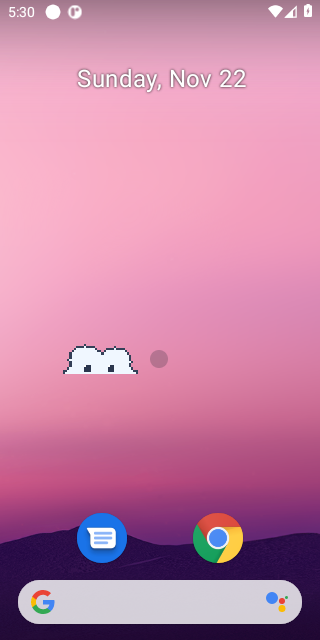
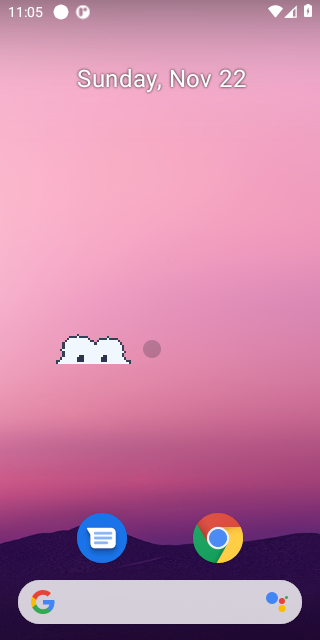
AI chat qua bridge native (tranh CORS) + anh float
- aiRequest HttpURLConnection, https/localhost
- askAI uu tien bridge, fallback fetch; 53 test
- 4.20.1 (versionCode 60)

Changed region(s): [[0.1875, 0.5, 0.4375, 0.5938], [0.0312, 0.0, 0.2812, 0.0312], [0.4375, 0.5312, 0.5312, 0.5938]]

diff --git a/pet-studio/ai.js b/pet-studio/ai.js
@@ -32,15 +32,34 @@ export function parseReply(json) {
   return String(text).trim().slice(0, 300);
 }
 
-export async function askAI(config, messages, fetchImpl = fetch) {
+export async function askAI(config, messages, fetchImpl = null) {
   const { url, init } = buildRequest({
     endpoint: config.endpoint,
     model: config.model,
     messages,
   });
+  const bridge = typeof window !== 'undefined' && window.AndroidPet && window.AndroidPet.aiRequest;
+  if (bridge && !fetchImpl) {
+    const raw = bridge(url, config.key ? 'Bearer ' + config.key : '', init.body);
+    let envelope;
+    try {
+      envelope = JSON.parse(raw);
+    } catch (err) {
+      throw new Error('bridge trả về không hợp lệ');
+    }
+    if (!envelope.ok) throw new Error('HTTP ' + envelope.status + ': ' + String(envelope.body || '').slice(0, 120));
+    let json;
+    try {
+      json = JSON.parse(envelope.body);
+    } catch (err) {
+      throw new Error('phản hồi không phải JSON');
+    }
+    return parseReply(json);
+  }
+  const doFetch = fetchImpl || fetch;
   const headers = { ...init.headers };
   if (config.key) headers.Authorization = 'Bearer ' + config.key;
-  const res = await fetchImpl(url, { ...init, headers });
+  const res = await doFetch(url, { ...init, headers });
   if (!res.ok) {
     const body = await res.text().catch(() => '');
     throw new Error('HTTP ' + res.status + (body ? ': ' + body.slice(0, 120) : ''));

diff --git a/android/app/src/main/java/io/github/vukiengiang/petstudio/MainActivity.java b/android/app/src/main/java/io/github/vukiengiang/petstudio/MainActivity.java
@@ -44,6 +44,9 @@ import androidx.webkit.WebViewAssetLoader;
 import androidx.webkit.WebViewClientCompat;
 
 import java.io.ByteArrayOutputStream;
+import java.io.InputStream;
+import java.net.HttpURLConnection;
+import java.net.URL;
 import java.io.File;
 import java.io.FileOutputStream;
 import java.io.InputStream;
@@ -341,6 +344,54 @@ public class MainActivity extends Activity {
             }
             startService(new Intent(MainActivity.this, PetOverlayService.class));
             return true;
+        }
+
+        @JavascriptInterface
+        public String aiRequest(String url, String auth, String body) {
+            HttpURLConnection conn = null;
+            try {
+                if (url == null || !(url.startsWith("https://")
+                        || url.startsWith("http://10.0.2.2") || url.startsWith("http://127.0.0.1"))) {
+                    return "{\"ok\":false,\"status\":0,\"body\":\"chỉ cho phép https\"}";
+                }
+                conn = (HttpURLConnection) new URL(url).openConnection();
+                conn.setRequestMethod("POST");
+                conn.setConnectTimeout(20000);
+                conn.setReadTimeout(30000);
+                conn.setDoOutput(true);
+                conn.setRequestProperty("Content-Type", "application/json");
+                if (auth != null && !auth.isEmpty()) conn.setRequestProperty("Authorization", auth);
+                try (OutputStream os = conn.getOutputStream()) {
+                    os.write((body == null ? "{}" : body).getBytes("UTF-8"));
+                }
+                int code = conn.getResponseCode();
+                InputStream in = code >= 400 ? conn.getErrorStream() : conn.getInputStream();
+                ByteArrayOutputStream buf = new ByteArrayOutputStream();
+                if (in != null) {
+                    byte[] chunk = new byte[8192];
+                    int read;
+                    while ((read = in.read(chunk)) > 0) buf.write(chunk, 0, read);
+                    in.close();
+                }
+                JSONObject out = new JSONObject();
+                out.put("ok", code >= 200 && code < 300);
+                out.put("status", code);
+                out.put("body", buf.toString("UTF-8"));
+                return out.toString();
+            } catch (Exception err) {
+                Log.e(TAG, "aiRequest failed", err);
+                try {
+                    JSONObject out = new JSONObject();
+                    out.put("ok", false);
+                    out.put("status", 0);
+                    out.put("body", String.valueOf(err.getMessage()));
+                    return out.toString();
+                } catch (Exception ignored) {
+                    return "{\"ok\":false,\"status\":0,\"body\":\"error\"}";
+                }
+            } finally {
+                if (conn != null) conn.disconnect();
+            }
         }
 
         @JavascriptInterface

diff --git a/HANDOVER.md b/HANDOVER.md
@@ -2,7 +2,7 @@
 
 ## Hiện tại
 
-- App **Pet Studio 4.19.0** (versionCode 58), Android 7.0+, offline mặc định.
+- App **Pet Studio 4.20.1** (versionCode 60), Android 7.0+, offline mặc định; chat AI tuỳ chọn.
 - APK: https://github.com/vukiengiang2025-sys/dsh-go-pets/releases/download/android-latest/PetStudio.apk
 - Bản trong máy: /sdcard/Download/DSH-Go/PetStudio.apk
 - 4 pet: Mây, Mây Tuyết, Mây Tết, DSH Bot + nhập ảnh/GIF/zip/link.
@@ -52,6 +52,8 @@ Repo, APK và CI vẫn đang ở trạng thái chạy được.
 - **PiP**: vào được nhưng WebView hiện khung đen trên emulator; đã ẩn nút sau cờ thử nghiệm.
 - **Overlay**: kéo bằng chấm nhỏ góc dưới; nhớ vị trí và cỡ (120/150/200) qua lần mở sau.
 - **Live wallpaper**: đã build service nhưng chưa đặt thử; smoke mở trình chọn hình nền bị treo nên đã bỏ bước đó.
+- **AI chat**: cần endpoint/model/key của bạn; request đi qua bridge native để tránh CORS, chưa thử với key thật.
+- **Pet nổi tự bay nhảy**: đã xác nhận bằng 2 ảnh chụp cách nhau 2 giây (pet lệch ~20 px).
 - **Dạy đi**: đường nét đứt chỉ hiện lúc đang đi, ảnh chụp chỉ thấy pet đã dời chỗ.
 - **FPS**: chip có nhưng chưa chụp được ảnh xác nhận số.
 - **Widget/thông báo**: đã đăng ký và có log; muốn thấy trên máy thật phải tự thêm widget.

diff --git a/STATUS.md b/STATUS.md
@@ -57,7 +57,7 @@ Tổng hợp theo 10 nhóm, đối chiếu từng ý tưởng với thứ đã c
 
 | # | Ý tưởng | Trạng thái |
 |---|---|---|
-| 31 | Chat ngắn | ✅ theo luật, offline |
+| 31 | Chat ngắn | ✅ offline + gọi API AI tuỳ chọn |
 | 32 | Tóm tắt việc | ✅ |
 | 33 | TTS | ✅ Web Speech |
 | 34 | Giọng riêng từng pack | ✅ mỗi pack nhớ giọng riêng |
